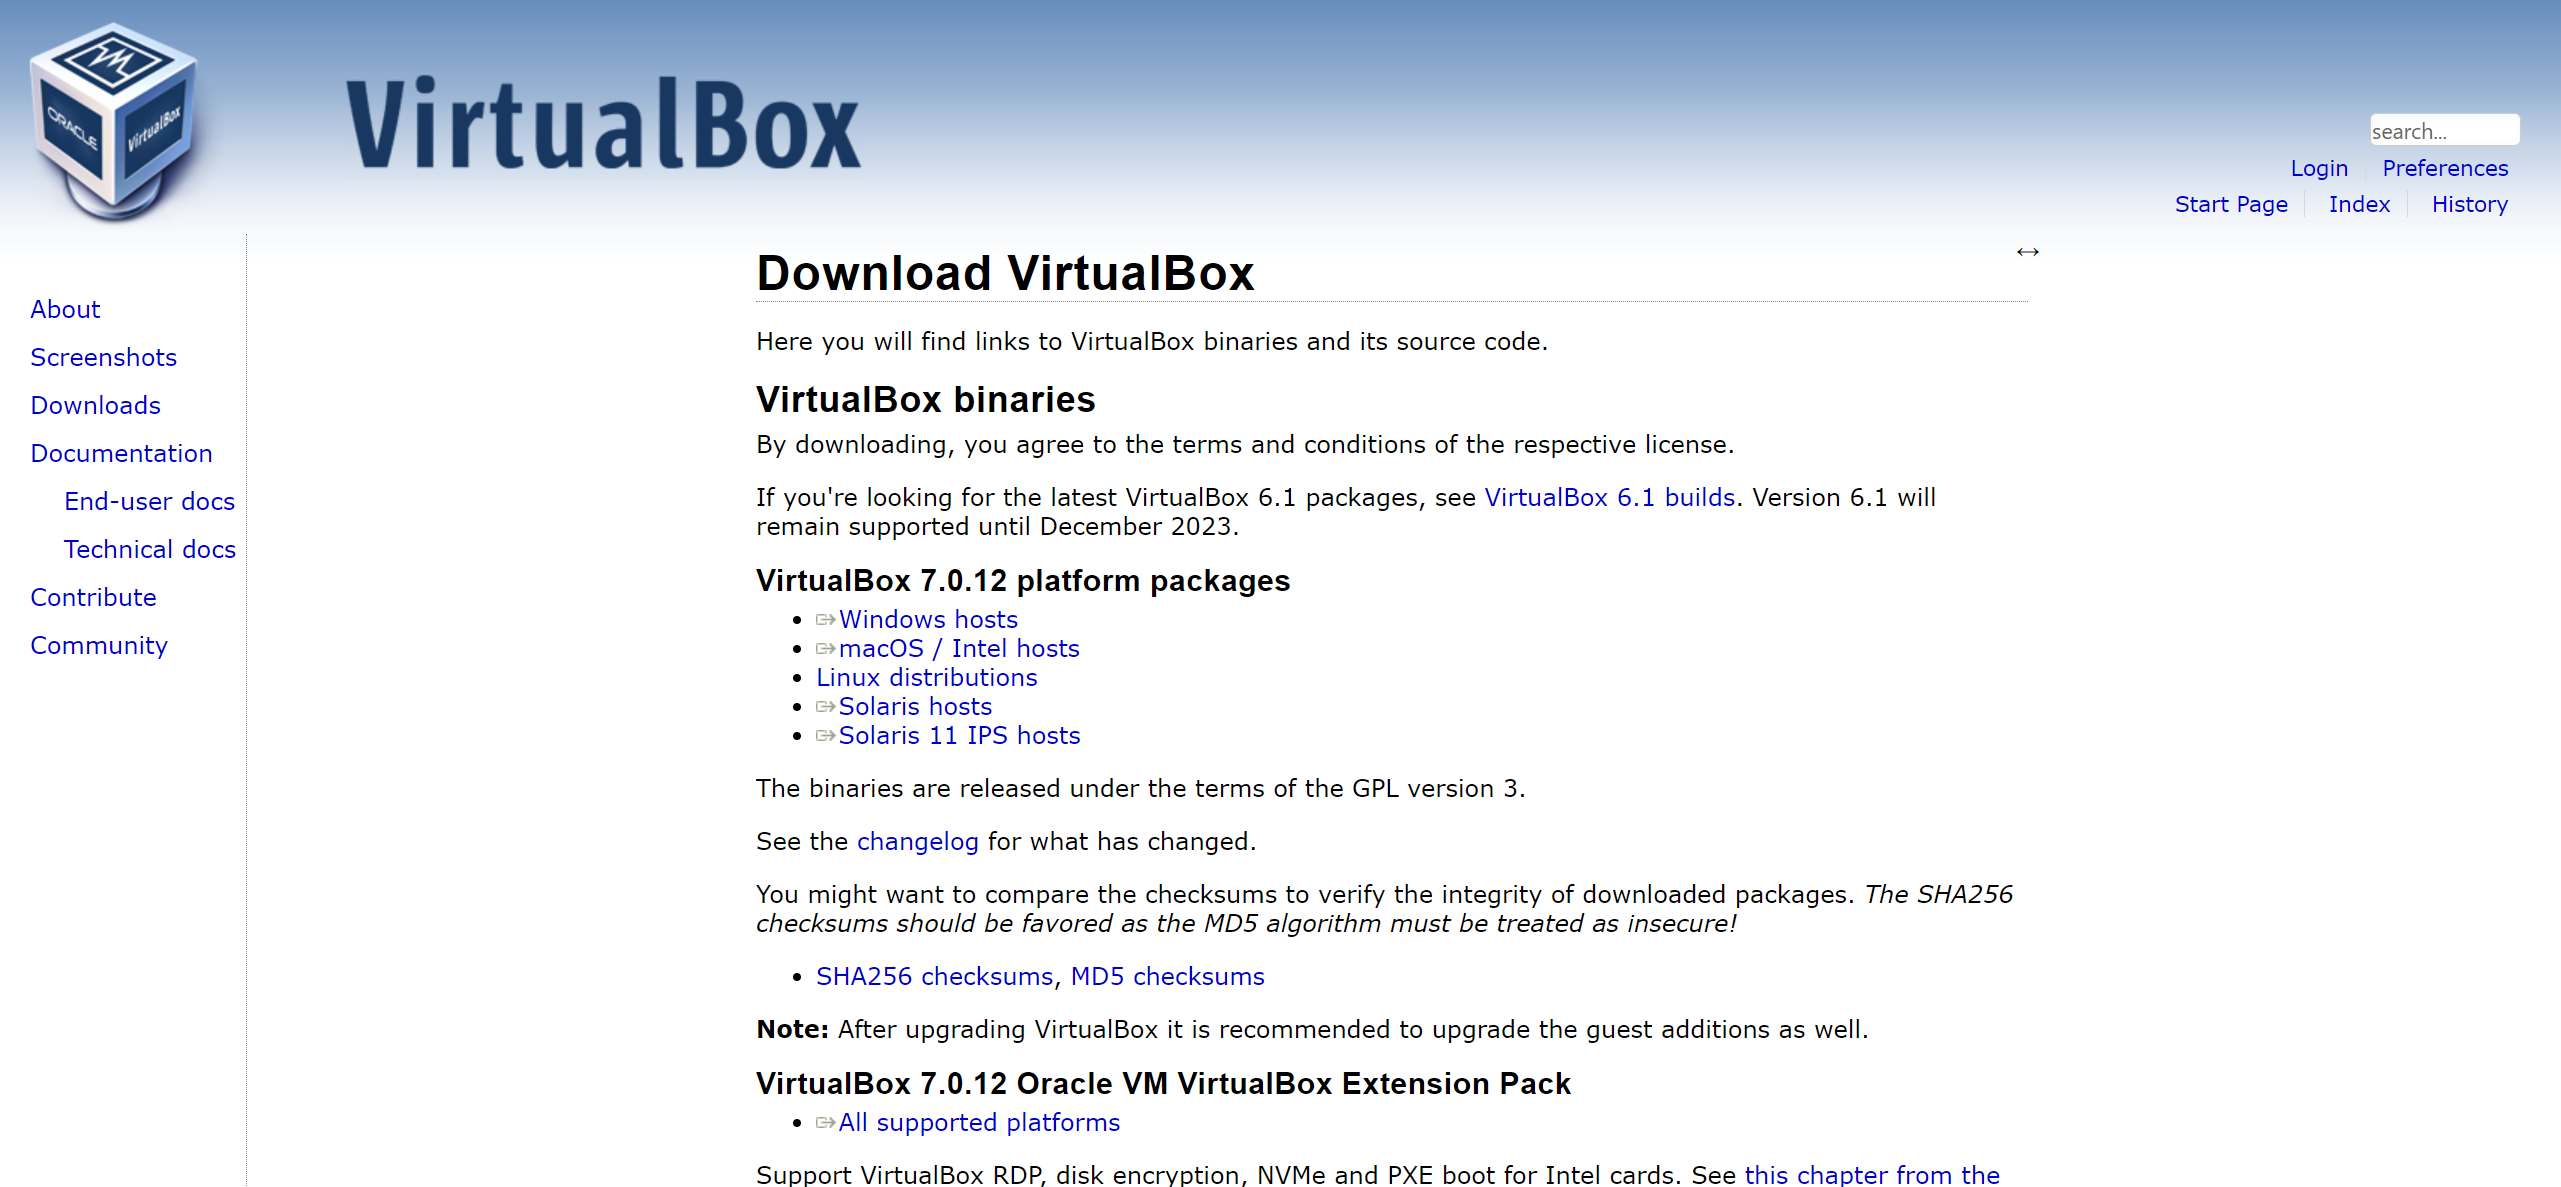
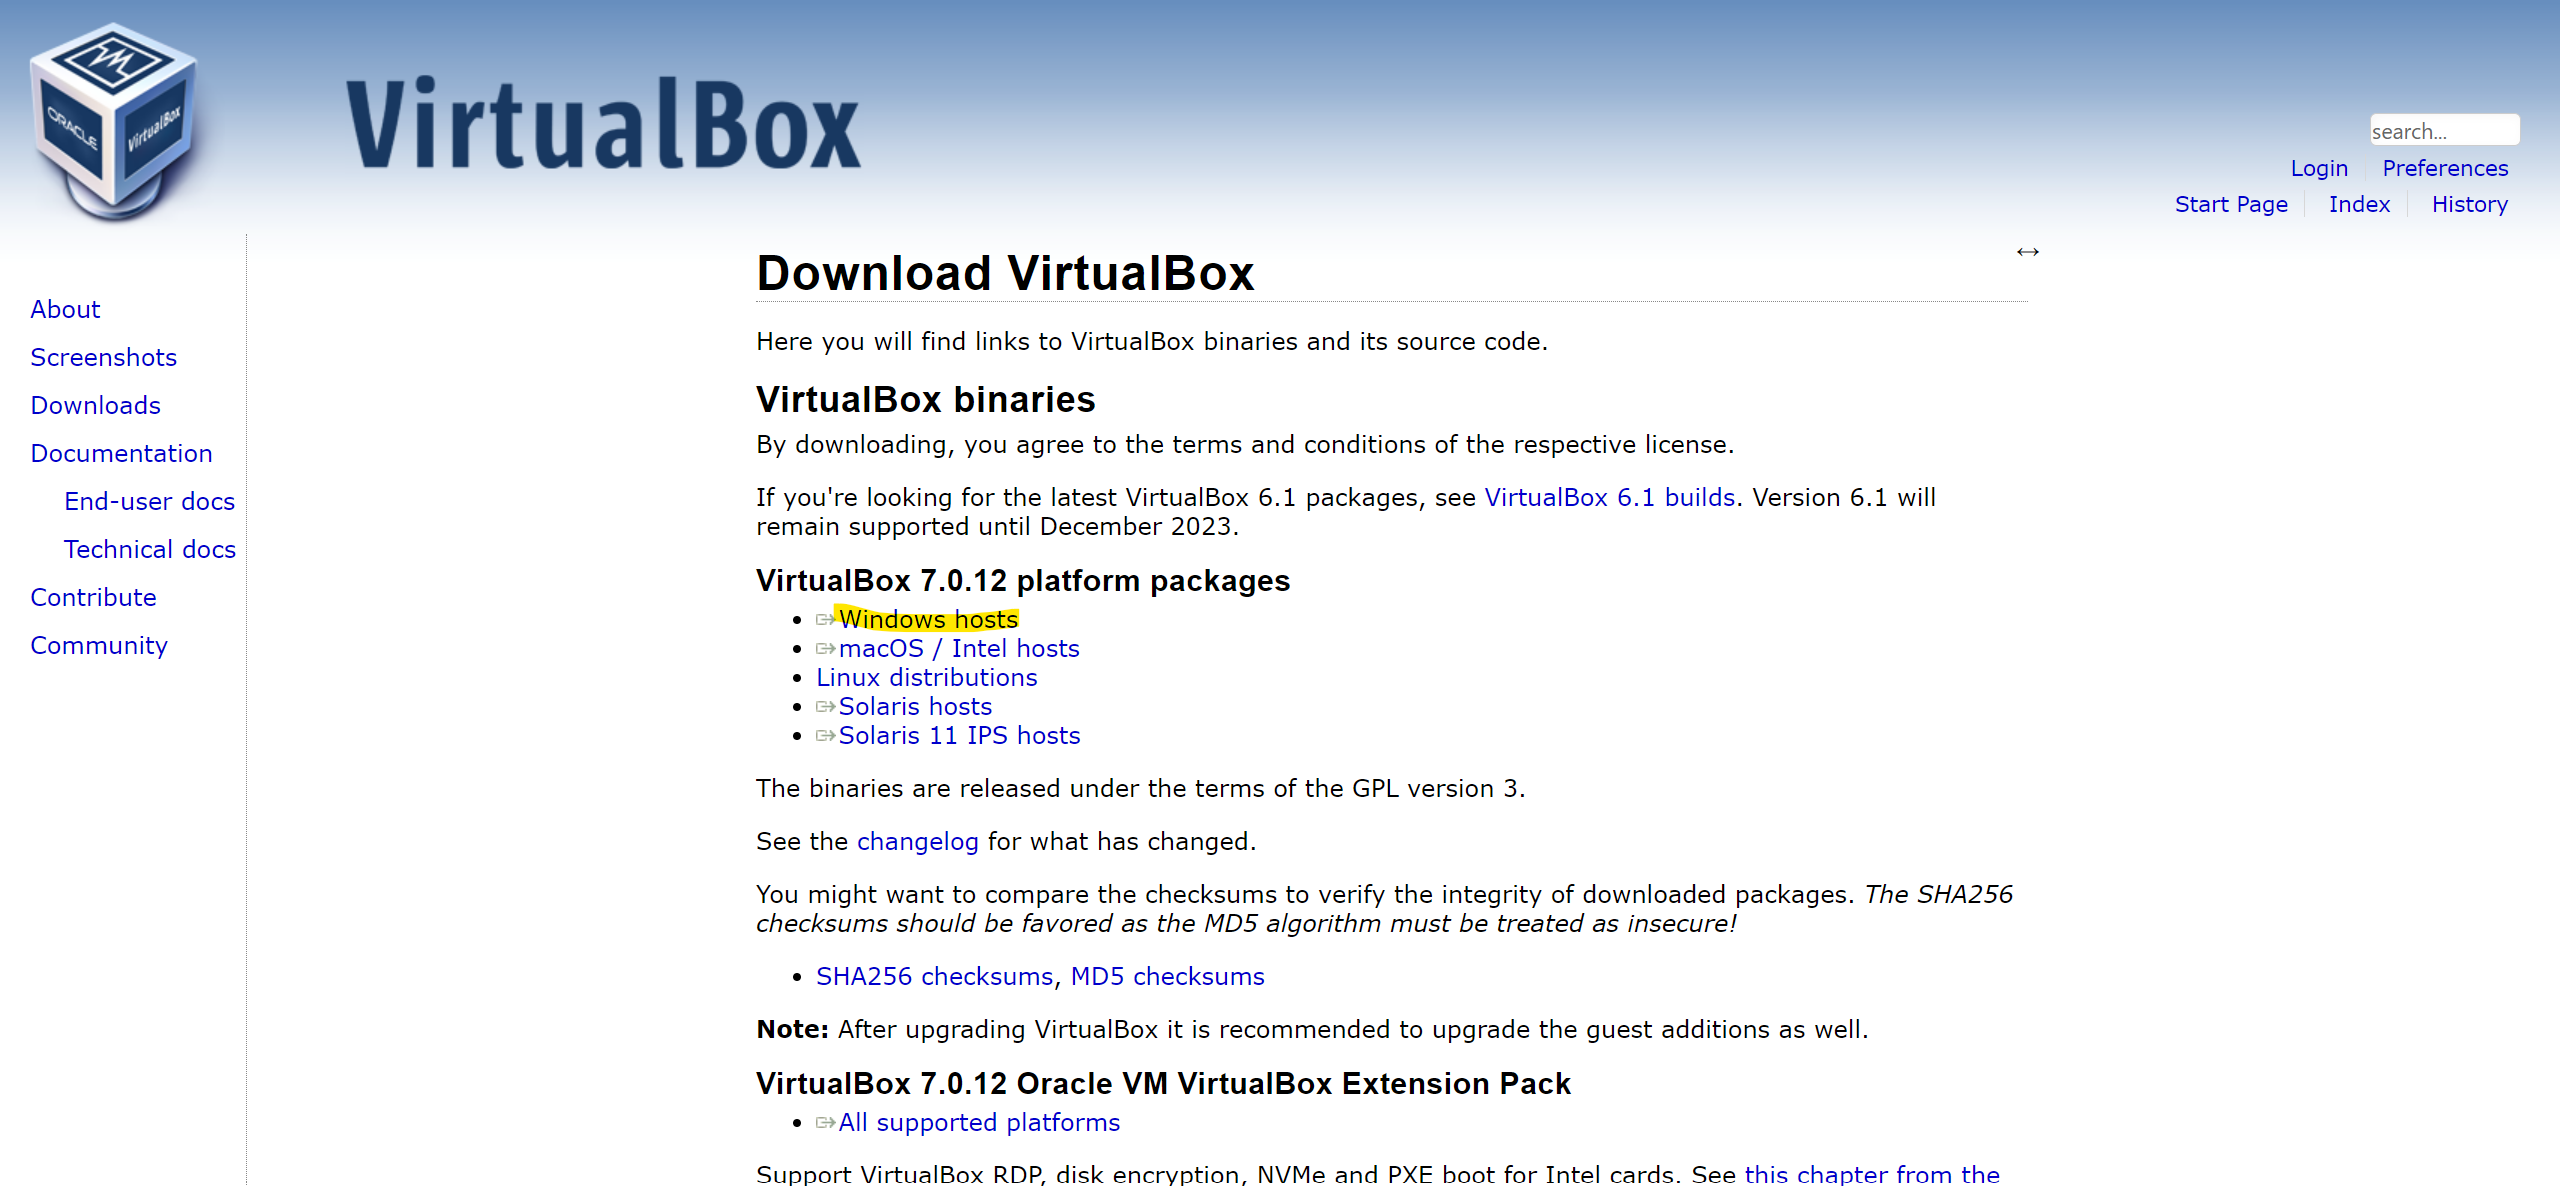
update

diff --git a/contents/install_vagrant_in_windows.md b/contents/install_vagrant_in_windows.md
@@ -1,0 +1,17 @@
+# Windows
+
+## Download the application from www.vagrantup.com
+
+open [https://developer.hashicorp.com/vagrant/install?product_intent=vagrant](https://developer.hashicorp.com/vagrant/install?product_intent=vagrant) 
+
+click windows package.
+
+![pic](install_vagrant_in_windows_000.png)
+
+After downloading, install vagrant application.
+
+![pic](install_vagrant_in_windows_001.png)
+
+Follow the installer's instructions to restart your computer.
+
+![pic](install_vagrant_in_windows_002.png)

diff --git a/SUMMARY.md b/SUMMARY.md
@@ -6,6 +6,8 @@
 * Getting started with WEKO3
     * Setup virtualbox
         * [Windows](contents/install_virtualbox_in_windows.md)
+    * Setup vagrant
+      * [Windows](contents/install_vagrant_in_windows.md)
     * Install docker
         * [Ubuntu](contents/install_container_engine_in_ubuntu.md)
 * Building repository with WEKO3

diff --git a/contents/install_virtualbox_in_windows.md b/contents/install_virtualbox_in_windows.md
@@ -4,5 +4,12 @@
 
 open [https://www.virtualbox.org/wiki/Downloads](https://www.virtualbox.org/wiki/Downloads) 
 
+click windows package.
+
 ![pic](install_virtualbox_in_windows_000.png)
+
+After downloading, install virtualbox application.
+
+![pic](install_virtualbox_in_windows_001.png)
+
 
